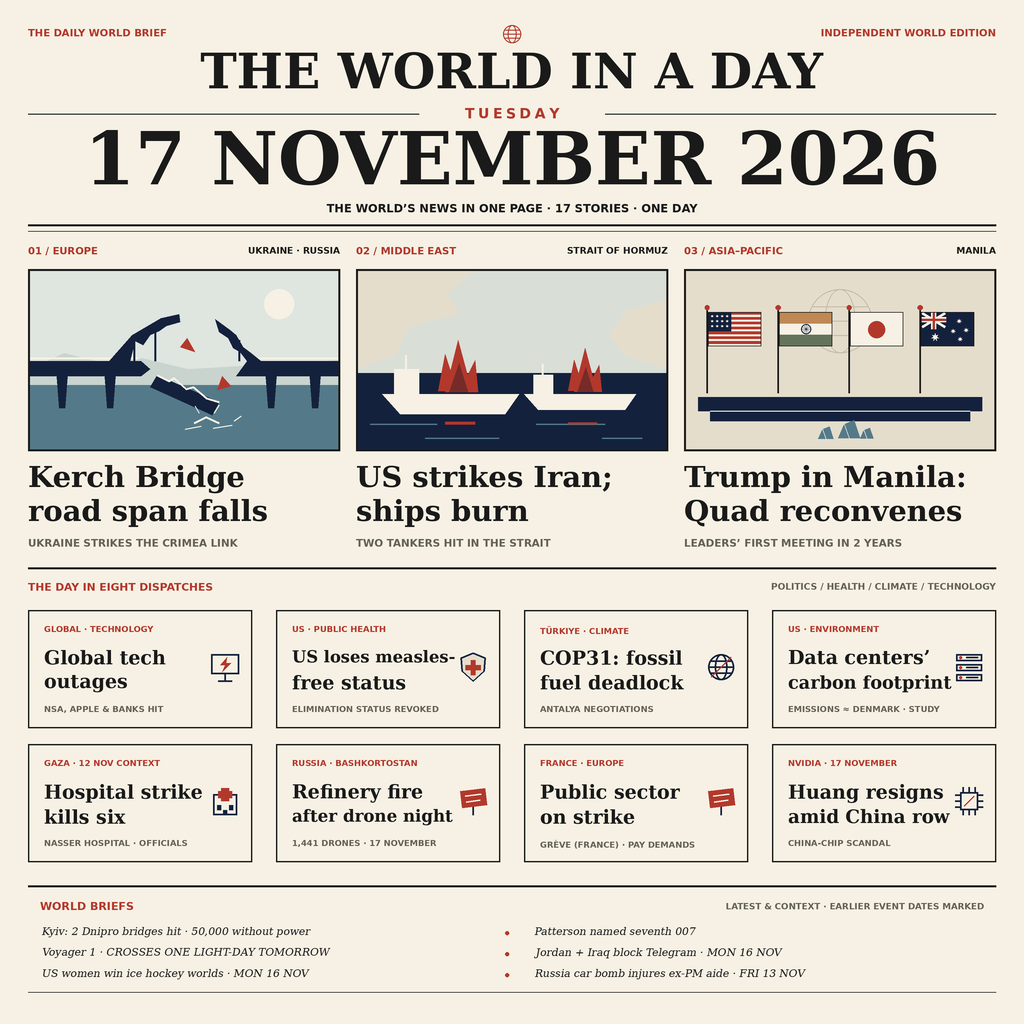
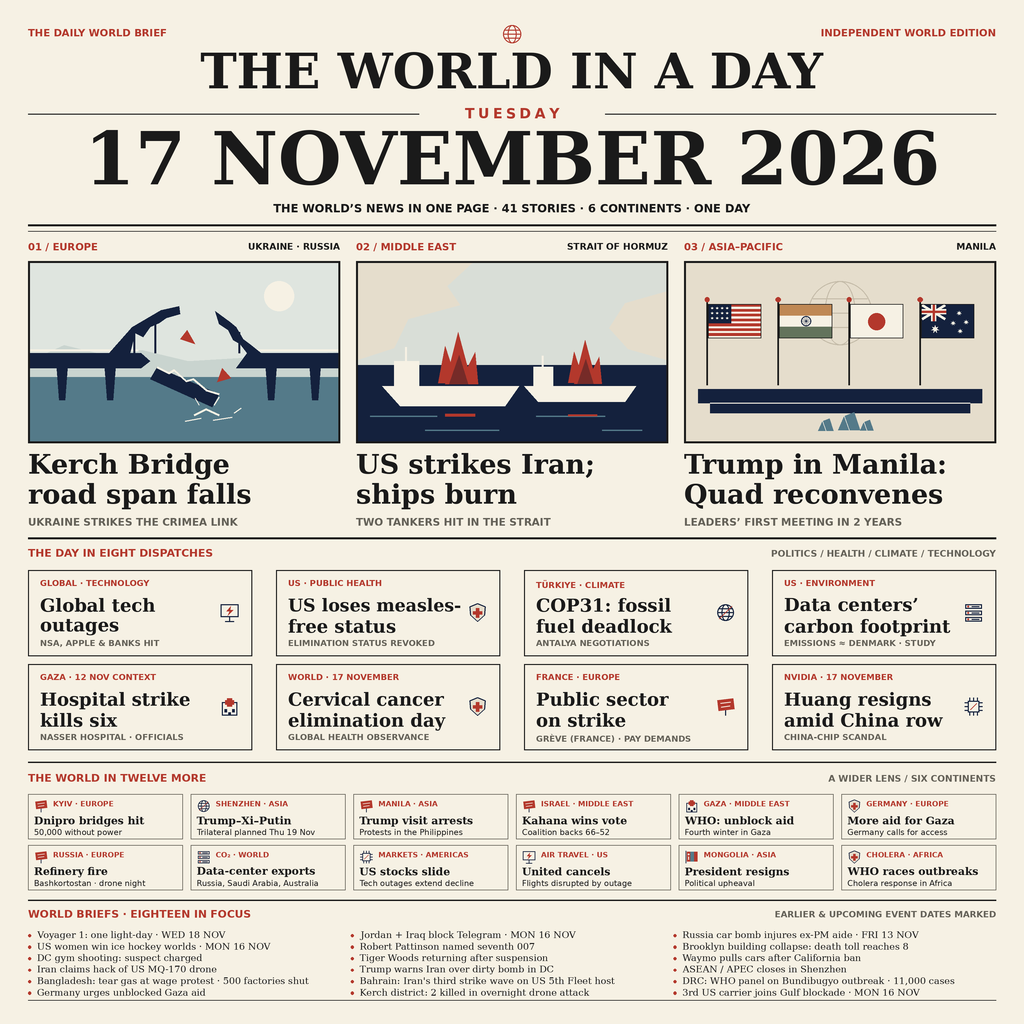
entry v2: 41 stories - add twelve-more band and expanded world briefs

Changed region(s): [[0.0312, 0.1875, 0.9688, 1.0]]

diff --git a/render.py b/render.py
@@ -310,21 +310,21 @@ def italic(value, x, y, size, max_width):
     image.paste(tile,(round(x*SCALE)-pad,round(y*SCALE)-pad),tile)
 
 
-def build():
-    # Masthead: an oversized date, airy small caps, and traditional double rules.
-    text("THE DAILY WORLD BRIEF",28,29,10,"bold",RED)
-    globe(512,34,9,RED)
-    text("INDEPENDENT WORLD EDITION",996,29,10,"bold",RED,"right")
-    fitted("THE WORLD IN A DAY",512,52,49,"serif",968,align="center")
-    line([(28,114),(419,114)],INK,1)
-    tracked("TUESDAY",512,108,14,3.5,RED)
-    line([(605,114),(996,114)],INK,1)
-    fitted("17 NOVEMBER 2026",512,130,73,"serif",968,align="center",minimum=65)
-    text("THE WORLD’S NEWS IN ONE PAGE · 17 STORIES · ONE DAY",512,204,
-         11.5,"bold",align="center",max_width=968)
-    line([(28,225),(996,225)],INK,2)
-    line([(28,231),(996,231)],INK,0.8)
+def small_icon(kind, x, y, size=20):
+    """Scale the shared icon geometry, including its stroke, on a fixed grid."""
+    global image, draw
+    page, page_draw = image, draw
+    tile = Image.new("RGB", (36*SCALE, 36*SCALE), PAPER)
+    try:
+        image, draw = tile, ImageDraw.Draw(tile)
+        icon(kind, 1, 1)
+    finally:
+        image, draw = page, page_draw
+    tile = tile.resize((round(size*SCALE), round(size*SCALE)), Image.Resampling.LANCZOS)
+    image.paste(tile, (round(x*SCALE), round(y*SCALE)))
 
+
+def build():
     panels = [
         (28,"01 / EUROPE", "UKRAINE · RUSSIA", bridge_art,
          ["Kerch Bridge", "road span falls"],
@@ -336,52 +336,112 @@ def build():
          ["Trump in Manila:", "Quad reconvenes"],
          "LEADERS’ FIRST MEETING IN 2 YEARS"),
     ]
-    for x,tag,place,art,headline,deck in panels:
-        text(tag,x,247,10,"bold",RED)
-        text(place,x+312,247,9,"bold",INK,"right")
-        art(x+1,270,310,180)
-        rect((x,269,x+312,451),outline=INK,width=2)
-        for i, value in enumerate(headline):
-            fitted(value,x,465+i*34,29,"serif",312,minimum=24)
-        fitted(deck,x,539,10.3,"bold",312,color=MUTED)
-    line([(28,568),(996,568)],INK,2)
-    text("THE DAY IN EIGHT DISPATCHES",28,583,10.5,"bold",RED)
-    text("POLITICS / HEALTH / CLIMATE / TECHNOLOGY",996,583,9,"bold",MUTED,"right")
-
     cards = [
         ("GLOBAL · TECHNOLOGY","outage",["Global tech", "outages"],"NSA, APPLE & BANKS HIT"),
         ("US · PUBLIC HEALTH","health",["US loses measles-", "free status"],"ELIMINATION STATUS REVOKED"),
         ("TÜRKIYE · CLIMATE","climate",["COP31: fossil", "fuel deadlock"],"ANTALYA NEGOTIATIONS"),
         ("US · ENVIRONMENT","data",["Data centers’", "carbon footprint"],"EMISSIONS ≈ DENMARK · STUDY"),
         ("GAZA · 12 NOV CONTEXT","hospital",["Hospital strike", "kills six"],"NASSER HOSPITAL · OFFICIALS"),
-        ("RUSSIA · BASHKORTOSTAN","strike",["Refinery fire", "after drone night"],"1,441 DRONES · 17 NOVEMBER"),
+        ("WORLD · 17 NOVEMBER","health",["Cervical cancer", "elimination day"],"GLOBAL HEALTH OBSERVANCE"),
         ("FRANCE · EUROPE","strike",["Public sector", "on strike"],"GRÈVE (FRANCE) · PAY DEMANDS"),
         ("NVIDIA · 17 NOVEMBER","chip",["Huang resigns", "amid China row"],"CHINA-CHIP SCANDAL"),
     ]
-    for n,(region,kind,title,deck) in enumerate(cards):
-        x = 28+(n%4)*(248)
-        y = 610+(n//4)*134
-        rect((x,y,x+224,y+118),outline=INK,width=1.5)
-        text(region,x+16,y+16,8.2,"bold",RED,max_width=192)
-        icon(kind,x+180,y+40)
-        for i,value in enumerate(title):
-            fitted(value,x+16,y+40+i*25,19,"serif",164,minimum=16)
-        fitted(deck,x+16,y+96,8.2,"bold",192,color=MUTED,minimum=7.5)
-
-    line([(28,886),(996,886)],INK,2)
-    text("WORLD BRIEFS",40,902,11,"bold",RED)
-    text("LATEST & CONTEXT · EARLIER EVENT DATES MARKED",984,903,8.5,"bold",MUTED,"right")
-    briefs = [
-        ("Kyiv: 2 Dnipro bridges hit · 50,000 without power", "Patterson named seventh 007"),
-        ("Voyager 1 · CROSSES ONE LIGHT-DAY TOMORROW", "Jordan + Iraq block Telegram · MON 16 NOV"),
-        ("US women win ice hockey worlds · MON 16 NOV", "Russia car bomb injures ex-PM aide · FRI 13 NOV"),
+    more = [
+        ("KYIV · EUROPE", "strike", "Dnipro bridges hit", "50,000 without power"),
+        ("SHENZHEN · ASIA", "climate", "Trump–Xi–Putin", "Trilateral planned Thu 19 Nov"),
+        ("MANILA · ASIA", "strike", "Trump visit arrests", "Protests in the Philippines"),
+        ("ISRAEL · MIDDLE EAST", "strike", "Kahana wins vote", "Coalition backs 66–52"),
+        ("GAZA · MIDDLE EAST", "hospital", "WHO: unblock aid", "Fourth winter in Gaza"),
+        ("GERMANY · EUROPE", "health", "More aid for Gaza", "Germany calls for access"),
+        ("RUSSIA · EUROPE", "strike", "Refinery fire", "Bashkortostan · drone night"),
+        ("CO₂ · WORLD", "data", "Data-center exports", "Russia, Saudi Arabia, Australia"),
+        ("MARKETS · AMERICAS", "chip", "US stocks slide", "Tech outages extend decline"),
+        ("AIR TRAVEL · US", "outage", "United cancels", "Flights disrupted by outage"),
+        ("MONGOLIA · ASIA", "mongolia", "President resigns", "Political upheaval"),
+        ("CHOLERA · AFRICA", "health", "WHO races outbreaks", "Cholera response in Africa"),
     ]
-    for i,(left,right) in enumerate(briefs):
-        yy = 927+i*21
-        italic(left,40,yy,10.6,444)
-        ellipse((505,yy+4,509,yy+8),RED)
-        italic(right,533,yy,10.6,451)
-    line([(28,992),(996,992)],INK,0.8)
+    briefs = [
+        "Voyager 1: one light-day · WED 18 NOV",
+        "Jordan + Iraq block Telegram · MON 16 NOV",
+        "Russia car bomb injures ex-PM aide · FRI 13 NOV",
+        "US women win ice hockey worlds · MON 16 NOV",
+        "Robert Pattinson named seventh 007",
+        "Brooklyn building collapse: death toll reaches 8",
+        "DC gym shooting: suspect charged",
+        "Tiger Woods returning after suspension",
+        "Waymo pulls cars after California ban",
+        "Iran claims hack of US MQ-170 drone",
+        "Trump warns Iran over dirty bomb in DC",
+        "ASEAN / APEC closes in Shenzhen",
+        "Bangladesh: tear gas at wage protest · 500 factories shut",
+        "Bahrain: Iran's third strike wave on US 5th Fleet host",
+        "DRC: WHO panel on Bundibugyo outbreak · 11,000 cases",
+        "Germany urges unblocked Gaza aid",
+        "Kerch district: 2 killed in overnight drone attack",
+        "3rd US carrier joins Gulf blockade · MON 16 NOV",
+    ]
+    story_count = len(panels) + len(cards) + len(more) + len(briefs)
+    assert story_count == 41
+
+    # Preserve the oversized masthead and date as the visual entry point.
+    text("THE DAILY WORLD BRIEF",28,29,10,"bold",RED)
+    globe(512,34,9,RED)
+    text("INDEPENDENT WORLD EDITION",996,29,10,"bold",RED,"right")
+    fitted("THE WORLD IN A DAY",512,52,49,"serif",968,align="center")
+    line([(28,114),(419,114)],INK,1)
+    tracked("TUESDAY",512,108,14,3.5,RED)
+    line([(605,114),(996,114)],INK,1)
+    fitted("17 NOVEMBER 2026",512,130,73,"serif",968,align="center",minimum=65)
+    text(f"THE WORLD’S NEWS IN ONE PAGE · {story_count} STORIES · 6 CONTINENTS · ONE DAY",
+         512,204,11.5,"bold",align="center",max_width=968)
+    line([(28,225),(996,225)],INK,2)
+    line([(28,231),(996,231)],INK,0.8)
+
+    for x,tag,place,art,headline,deck in panels:
+        text(tag,x,243,10,"bold",RED)
+        text(place,x+312,243,9,"bold",INK,"right")
+        art(x+1,262,310,180)
+        rect((x,261,x+312,443),outline=INK,width=2)
+        for i, value in enumerate(headline):
+            fitted(value,x,453+i*30,27,"serif",312,minimum=24)
+        fitted(deck,x,518,10.3,"bold",312,color=MUTED)
+
+    line([(28,538),(996,538)],INK,2)
+    text("THE DAY IN EIGHT DISPATCHES",28,549,10.5,"bold",RED)
+    text("POLITICS / HEALTH / CLIMATE / TECHNOLOGY",996,550,9,"bold",MUTED,"right")
+    for n,(region,kind,title,deck) in enumerate(cards):
+        x = 28+(n%4)*248
+        y = 570+(n//4)*94
+        rect((x,y,x+224,y+86),outline=INK,width=1)
+        text(region,x+12,y+10,8.2,"bold",RED,max_width=200)
+        small_icon(kind,x+190,y+31,23)
+        for i,value in enumerate(title):
+            fitted(value,x+12,y+28+i*21,18,"serif",174,minimum=16)
+        fitted(deck,x+12,y+70,8.2,"bold",200,color=MUTED,minimum=8)
+
+    line([(28,762),(996,762)],INK,1.5)
+    text("THE WORLD IN TWELVE MORE",28,774,10.5,"bold",RED)
+    text("A WIDER LENS / SIX CONTINENTS",996,775,9,"bold",MUTED,"right")
+    gap = 8
+    card_width = (968-5*gap)/6
+    for n,(region,kind,headline,detail) in enumerate(more):
+        x = 28+(n%6)*(card_width+gap)
+        y = 794+(n//6)*51
+        rect((x,y,x+card_width,y+45),outline=MUTED,width=0.65)
+        small_icon(kind,x+5,y+4,16)
+        text(region,x+25,y+7,7.5,"bold",RED,max_width=card_width-29)
+        fitted(headline,x+6,y+22,10.5,"serif",card_width-12,minimum=10)
+        fitted(detail,x+6,y+35,8,"sans",card_width-12,minimum=8)
+
+    line([(28,900),(996,900)],INK,1.5)
+    text("WORLD BRIEFS · EIGHTEEN IN FOCUS",28,910,10.5,"bold",RED)
+    text("EARLIER & UPCOMING EVENT DATES MARKED",996,911,8.5,"bold",MUTED,"right")
+    for n,value in enumerate(briefs):
+        x = 28+(n%3)*(968/3)
+        y = 931+(n//3)*11.5
+        ellipse((x,y+3,x+3,y+6),RED)
+        text(value,x+9,y,9.2,"book",max_width=309)
+    line([(28,1000),(996,1000)],INK,0.8)
     # Check all normal text boxes for unintended overlap, including small caps.
     for n,(a,ba) in enumerate(TEXT_BOXES):
         for b,bb in TEXT_BOXES[n+1:]:

diff --git a/README.md b/README.md
@@ -4,7 +4,7 @@
 
 # The World in a Day
 
-A 1024 × 1024 RGB newspaper front page for Tuesday, 17 November 2026, with an oversized date, three illustrated lead stories, eight dispatch cards, and compact world briefs. Earlier or upcoming events carry explicit dates.
+A 1024 × 1024 RGB newspaper front page for Tuesday, 17 November 2026, with an oversized date, three illustrated lead stories, eight dispatches, twelve additional world cards, and eighteen compact world briefs (41 stories total). Earlier or upcoming events carry explicit dates.
 
 Render the artwork with `python3 render.py` (requires Pillow and system DejaVu fonts).
 
